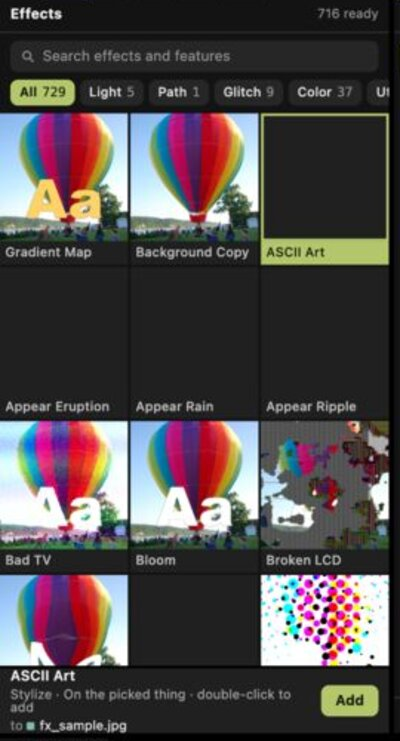
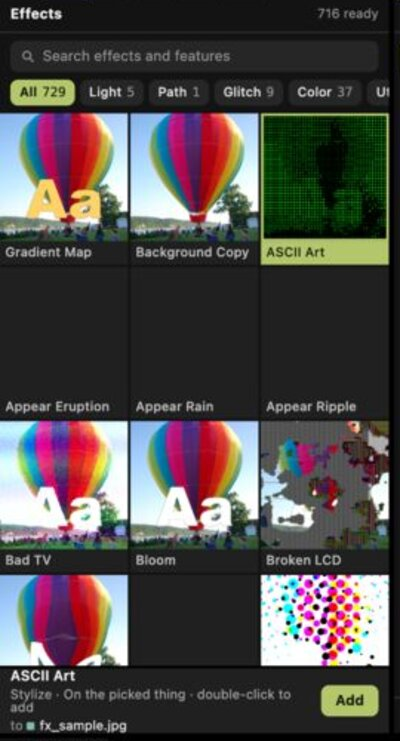
Effects put in the own folder show at once, with a balloon tile drawn by itself
The window watches the maker's own folder (~/Library/Application Support/Motolii, or MOTOLII_OWN)
while it is open, with dart:io's Directory.watch (FSEvents on a Mac): a file put in or taken out and
the shelves are read again (Motolii.forgetFolders; BRIDGE.md rule 8 gains this second half). A
screen effect (.fs, .wgsl) of the maker's with no picture gets one, drawn as filament/fx_tiles.sh
draws the bundled ones (fx_sample.jpg drifting, a white Aa, the effect on the whole picture, at
1.4 s), on a document of its own in another isolate as create_preview.dart does, and written beside
the effect (name.fs -> name.png); that write is seen by the watch and the tile shows it.

Before this the folders were read once as the window opened (BRIDGE.md rule 8), so README's "on the
shelf at once" was wrong for a file put in afterwards. drop_effect_test.dart now puts ASCII Art.fs
in with the window open and waits for its picture: it passes, and the real ~/Library folder is not
touched (MOTOLII_OWN). flutter test: 125 pass as before. Asked for by the maker (10/27).

Borrowed: fx_tiles.sh's sample and calls, create_preview.dart's isolate. Written: effect_tiles.dart
(~75 lines), 8 lines in motolii.dart and workspace.dart.

Changed region(s): [[0.66, 0.1552, 0.99, 0.3414]]

diff --git a/skin/book/lib/workspace/effect_tiles.dart b/skin/book/lib/workspace/effect_tiles.dart
@@ -1,0 +1,78 @@
+// The maker's own folder watched while the window is open (dart:io's watch, FSEvents on a Mac): a file put in or taken
+// out there and the shelves are read again (BRIDGE.md rule 8, the second half). An effect of the maker's that has no
+// picture gets one: the sample filament/fx_tiles.sh draws the bundled ones on (the balloon, fx_sample.jpg, drifting,
+// a white Aa over it) with that effect on the whole picture, drawn on a document of its own in another isolate (as
+// create_preview.dart reckons the recipes) and written beside the effect (effects/name.fs -> effects/name.png), as
+// fx_tiles.sh writes the bundled ones. That write is a change in the folder too, and the shelf shows it.
+import 'dart:async';
+import 'dart:io';
+import 'dart:isolate';
+
+import '../motolii.dart';
+
+abstract final class EffectTiles {
+  static final _asked = <String>{};
+
+  /// The maker's own folder: MOTOLII_OWN, or ~/Library/Application Support/Motolii (as the inside's doc_folders).
+  static String get own => Platform.environment['MOTOLII_OWN'] ?? '${Platform.environment['HOME']}/Library/Application Support/Motolii';
+
+  /// Watched until the subscription is cancelled; [changed] is told after the folders are read again.
+  static StreamSubscription<FileSystemEvent>? watch(Motolii m, void Function() changed) {
+    final dir = Directory('$own/effects');
+    try {
+      dir.createSync(recursive: true); // (there to put files in, as README says)
+    } catch (_) {
+      return null;
+    }
+    Timer? soon;
+    void again() {
+      m.forgetFolders();
+      changed();
+      ask(m);
+    }
+    ask(m);
+    return Directory(own).watch(recursive: true).listen((_) {
+      soon?.cancel();
+      soon = Timer(const Duration(milliseconds: 300), again); // (a copy is several events: read once it has settled)
+    });
+  }
+
+  /// The maker's screen effects with no picture beside them, drawn once each.
+  static void ask(Motolii m) {
+    final todo = [
+      for (final (n, f) in m.effects)
+        if (m.picture(n).isEmpty && f.startsWith(own) && (f.endsWith('.fs') || f.endsWith('.wgsl')) && _asked.add(f)) f,
+    ];
+    if (todo.isEmpty) return;
+    final dir = motoliiDir;
+    unawaited(Isolate.run(() => _draw(dir, todo)));
+  }
+
+  static void _draw(String dir, List<String> files) {
+    final folder = Directory.systemTemp.createTempSync('motolii_tiles');
+    final m = Motolii.open('${folder.path}/tiles.motolii', wide: 512, high: 512, dir: dir);
+    if (m == null) return;
+    final photo = m.add('picture', '$dir/fx_sample.jpg');
+    m
+      ..set(photo, 'size', 3.6)
+      ..key(photo, 'x', 0, -0.1)
+      ..key(photo, 'x', 2, 0.1);
+    final aa = m.add('text', '/System/Library/Fonts/Supplemental/Arial Black.ttf');
+    m
+      ..say(aa, 'text', 'Aa')
+      ..say(aa, 'fill', 'ffffff')
+      ..set(aa, 'size', 1)
+      ..set(aa, 'y', -0.55);
+    for (final f in files) {
+      final png = '${f.substring(0, f.lastIndexOf('.'))}.png';
+      if (File(png).existsSync() || !m.say(0, 'script', f)) continue; // (one it cannot take: no picture, as before)
+      m
+        ..at(1.4)
+        ..still(png);
+    }
+    m.close();
+    try {
+      folder.deleteSync(recursive: true);
+    } catch (_) {}
+  }
+}

diff --git a/skin/book/integration_test/drop_effect_test.dart b/skin/book/integration_test/drop_effect_test.dart
@@ -1,6 +1,7 @@
 // The README's "put an effect from the net in": an ISF file Motolii does not bundle (ASCII Art, from Vidvox's ISF-Files,
 // which filament/check/isf_all.sh fetches) put in the maker's own effects folder, seen on the Effects shelf at once and
-// put on a photo; a picture of the shelf (docs/media/drop_step1.png).
+// put on a photo; a picture of the shelf (docs/media/drop_step1.png). Put in with the window open: the shelf sees it, and its
+// tile is drawn on the balloon by itself (lib/workspace/effect_tiles.dart).
 //   flutter drive --profile -d macos --driver=test_driver/integration_test.dart --target=integration_test/drop_effect_test.dart
 import 'dart:ffi' hide Size;
 import 'dart:io';
@@ -30,7 +31,6 @@ void main() {
     expect(from.existsSync(), isTrue, reason: 'fetch ISF-Files with filament/check/isf_all.sh');
     final own = Directory.systemTemp.createTempSync('own');
     Directory('${own.path}/effects').createSync();
-    from.copySync('${own.path}/effects/ASCII Art.fs'); // (what a maker does in Finder)
     final setenv = DynamicLibrary.process().lookupFunction<Int32 Function(Pointer<Utf8>, Pointer<Utf8>, Int32), int Function(Pointer<Utf8>, Pointer<Utf8>, int)>('setenv');
     final name = 'MOTOLII_OWN'.toNativeUtf8(), path = own.path.toNativeUtf8();
     setenv(name, path, 1); // (the maker's folder here: a test does not write into the real one)
@@ -58,11 +58,14 @@ void main() {
       File('${out.path}/$png').writeAsBytesSync(bytes!.buffer.asUint8List());
     }
 
+    from.copySync('${own.path}/effects/ASCII Art.fs'); // (what a maker does in Finder, with the window open)
     final photo = m.add('picture', '$motoliiDir/fx_sample.jpg');
     m.set(photo, 'size', 2);
-    for (var i = 0; i < 60 && !m.effects.any((e) => e.$1 == 'ASCII Art'); i++) {   // (the folders are looked at again twice a second)
+    for (var i = 0; i < 200 && m.picture('ASCII Art').isEmpty; i++) {   // (seen by the folder's watch, read again, its picture drawn: effect_tiles.dart)
       await t.runAsync(() => Future<void>.delayed(const Duration(milliseconds: 50)));
+      await t.pump();
     }
+    expect(m.picture('ASCII Art'), '${own.path}/effects/ASCII Art.png', reason: 'its tile drawn beside it');
     ws
       ..reread()
       ..select('$photo')

diff --git a/skin/book/lib/workspace/workspace.dart b/skin/book/lib/workspace/workspace.dart
@@ -9,6 +9,7 @@ import 'package:docking/docking.dart';
 import 'package:flutter/widgets.dart';
 import '../parts/skin_parts.dart';
 import 'zoom.dart';
+import 'effect_tiles.dart';
 import 'ableton.dart';
 import 'package:lab_book/sets/inspector/inspector_parts_insp_host.dart';
 
@@ -61,6 +62,7 @@ class _WorkspaceState extends State<Workspace> {
     ..tools = [...deskTools, ...widget.tools]
     ..view.addAll(widget.view);
   Motolii? _inside;
+  StreamSubscription<FileSystemEvent>? _own;   // (the maker's own folder watched: effect_tiles.dart)
 
   String? _doc; // (the document that is open: the one the window was given, or one made or opened from the menu)
 
@@ -277,6 +279,9 @@ class _WorkspaceState extends State<Workspace> {
     final inside = Motolii.open(doc);
     if (inside == null) return;
     _inside = inside;
+    _own = EffectTiles.watch(inside, () {   // (a file put in the maker's own folder: on the shelves at once)
+      if (mounted) _ws.reread();
+    });
     _doc = doc;
     _beside = _documents();
     final id = await inside.texture();
@@ -304,6 +309,7 @@ class _WorkspaceState extends State<Workspace> {
   void dispose() {
     FocusManager.instance.removeListener(_keepKeys);
     _windowFocus.dispose();
+    _own?.cancel();
     _inside?.close();
     _ws.dispose();
     super.dispose();

diff --git a/skin/book/lib/motolii.dart b/skin/book/lib/motolii.dart
@@ -184,8 +184,15 @@ class Motolii {
 
   final _shownOf = <String, Shown?>{};   // (read out of the things' parts once a picture of the document)
 
-  /// What the folders hold (recipes, effects, animators): not the document's, read once.
+  /// What the folders hold (recipes, effects, animators): not the document's, read once, and again after [forgetFolders].
   final _folders = <String, List<(String, String)>>{};
+
+  /// The folders read again at the next ask (a file put in the maker's own folder: workspace/effect_tiles.dart).
+  void forgetFolders() {
+    _folders.clear();
+    _labels.clear();
+    _pictures.clear();
+  }
 
   /// The window's thread watched: while on, a change it waits for, or a read that waits on the document over 2 ms, is
   /// kept; [broken] says each, one to a line ('' none). Turned on, what was kept is forgotten.

diff --git a/ASSETS.md b/ASSETS.md
@@ -139,6 +139,7 @@
 | 関わり方（Issue・PR・台帳と出典の決まり・知っている穴） | `CONTRIBUTING.md` | 書いた（10/27） |
 | 取ってくる物の小さなスクリプト：Filament の組み立て済み SDK（前の試しのスクリプトが使う）、MIDI ビューの PianoRollSvg.js | `filament/sdk.sh`、`filament/midi_roll.sh` | 空の所から取れることを確かめた（10/27） |
 | 外向けの文書：英語の README、Issue と PR のひな型、台帳の確かめを GitHub Actions で毎回走らせる設定、README の絵（Motolii で作った物と、パブリックドメインの写真に掛けた物） | `README.en.md`、`ARCHITECTURE.md`（作りと言葉の対応表）、`CONTRIBUTING.en.md`、`CODE_OF_CONDUCT.md`、`SECURITY.md`、`.github/ISSUE_TEMPLATE/`、`.github/PULL_REQUEST_TEMPLATE.md`、`.github/workflows/assets.yml`、`.github/workflows/build.yml`（組み立て全部と試験）、`docs/media/`、`docs/examples/`（README の作例の命令と、それを 1 行で走らせる mv.sh） | 書いた（10/27）。最初の 1 本のコマンドは書いたとおりに走らせて確かめた |
+| 作者のフォルダを窓が見張り、置いた効果がその場で棚に出る。絵の無い効果には fx_tiles.sh と同じ気球の見本を自動で描いて隣に置く（dart:io の watch、create_preview.dart と同じ別 isolate） | `skin/book/lib/workspace/effect_tiles.dart`、`skin/book/integration_test/drop_effect_test.dart` | 窓の試験で確かめた（10/27、開いたまま置いて棚に出て絵ができる） |
 | 組み立てに要る Homebrew の物の一覧（Homebrew Bundle の書き方、`brew bundle` で入る） | `Brewfile` | 新しいクローンで組んで確かめた（10/27） |
 | 同梱した他の人の作品の一覧と断り書き（AviUtl2 の 172、ISF・three.js・PlayCanvas の効果、取ってくる依存）。PlayCanvas の効果のライセンスの文書 | `THIRD_PARTY_NOTICES.md`、`filament/effects/playcanvas-LICENSE.txt`、`vgpu-LICENSE.txt`、`phosphor-LICENSE.txt`、`SlitScanCam-LICENSE.txt`、`three-LICENSE.txt` | 書いた（10/27） |
 | この台帳と、その見張り（コミットの前に走る） | `ASSETS.md`、`.githooks/assets_check.py`、`.githooks/pre-commit` | 今の土台で動く |

diff --git a/README.md b/README.md
@@ -172,12 +172,12 @@ Motolii の一番の使い方です。例として、[ISF-Files](https://github.
 
 1. 効果のファイル（`.fs`）を落とす。例：ISF-Files のページで `ISF/ASCII Art.fs` を開き、Raw を右クリックして「リンク先を別名で保存」。
 2. Finder で ⌘⇧G を押し、`~/Library/Application Support/Motolii/` と打って開く。中に `effects` というフォルダを作り（無ければ）、落としたファイルを入れる。
-3. 画面の Effects の棚に、その場で出る（閉じて開き直さなくてよい）。レイヤーを選んで、タイルを押し、下の **Add**。
+3. 画面の Effects の棚に、その場で出る（閉じて開き直さなくてよい）。タイルの絵（気球の写真にその効果を掛けた見本）も数秒で自動で作られ、効果の隣に `.png` で置かれる。レイヤーを選んで、タイルを押し、下の **Add**。
    ![Effects の棚に ASCII Art が出た所](docs/media/drop_shelf.jpg)
 4. 書き出すと、こうなる（写真に ASCII Art を掛けた所）。
    ![写真に ASCII Art を掛けて書き出した所](docs/media/drop_ascii.jpg)
 
-いまは画面の中だと掛けた後の場面が白く見える不具合があります（上の「知っている不具合」）。書き出した動画では正しく描かれます。この手順の 3 までは試験としても走ります（`skin/book/integration_test/drop_effect_test.dart`。書き出しもして、そのコマが正しく描かれているのを確かめた）。WGSL（`.wgsl`）・レシピ（`.js`、`recipes/` に）・イーズ（`.way`、`ways/` に）も同じ置き方です。
+いまは画面の中だと掛けた後の場面が白く見える不具合があります（上の「知っている不具合」）。書き出した動画では正しく描かれます。この手順は試験としても走ります（`skin/book/integration_test/drop_effect_test.dart`：画面を開いたまま置く → 棚に出る → 見本の絵ができる → 掛ける → 書き出して、そのコマが正しく描かれているのを確かめた）。WGSL（`.wgsl`）・レシピ（`.js`、`recipes/` に）・イーズ（`.way`、`ways/` に）も同じ置き方です。
 
 ### 次に：自分の素材で
 

diff --git a/skin/BRIDGE.md b/skin/BRIDGE.md
@@ -18,7 +18,7 @@ Thermion（描けは前が終わるまで捨てる）。調べた記録は `rese
    （再生ヘッド、再生中、選んだ物、選んだキー、desk、棚、見え方、Animate）をそれぞれ1つずつ。何でも知らせる口（`Ws` 全体の `notifyListeners`）は作らない。
 6. **書き（W）は投げるだけ。** 列に積んで、すぐ戻る。番号が要る物（`add`・`make`）は、答えを後で写しと一緒に受け取る。同じ物の同じ値への書きが列に残っていたら、最新の1つにまとめる。
 7. **今の時刻以外を聞く物と、長い物（Q）は問い合わせ。** 頼んで `Future` で受け取る。組み立ての中では待たない（届いたら、その部品だけ描き直す）。
-8. **起動時に1回の物（S）**（レシピ・効果・アニメーターのフォルダ、フォントの種類）は、窓が開く時に別のスレッドで1回読む。
+8. **起動時に1回の物（S）**（レシピ・効果・アニメーターのフォルダ、フォントの種類）は、窓が開く時に別のスレッドで1回読む。（10/27 から：作者のフォルダ `~/Library/Application Support/Motolii/` は窓が開いている間見張り、ファイルが入るか出るかしたら読み直す。絵の無い効果には気球の見本を別の isolate で描いて隣に置く：`book/lib/workspace/effect_tiles.dart`）
 9. **再生ヘッド・選択・ズームは窓の持ち物**（Lumit と同じ）。中身へは書きとして伝えるだけ。
 10. **見張り。** `integration_test/frames_test.dart`：窓が中身を待った回数は 0（今の赤ポチ）。再生ヘッドを1つ動かした時と、再生を押した時に組み立て直される部品の数に上限を付け、超えたら赤。
 

diff --git a/README.en.md b/README.en.md
@@ -172,12 +172,12 @@ This is what Motolii is for. As an example, `ASCII Art.fs` from [ISF-Files](http
 
 1. Download the effect file (`.fs`). For example, open `ISF/ASCII Art.fs` on the ISF-Files page, right-click Raw and save the link.
 2. In Finder press ⌘⇧G, type `~/Library/Application Support/Motolii/` and go. Make a folder `effects` there (if there is none) and put the file in it.
-3. It appears on the Effects shelf at once (no restart). Pick a layer, press the tile, then **Add**.
+3. It appears on the Effects shelf at once (no restart). Its tile picture (the balloon photo with that effect on) is made by itself within seconds and put beside the effect as a `.png`. Pick a layer, press the tile, then **Add**.
    ![ASCII Art on the Effects shelf](docs/media/drop_shelf.jpg)
 4. Written out, it looks like this (ASCII Art on a photo).
    ![ASCII Art on a photo, written out](docs/media/drop_ascii.jpg)
 
-For now the live view inside the app shows the composition white after this (see Known bugs); the written video is drawn right. Steps 1–3 also run as a test (`skin/book/integration_test/drop_effect_test.dart`), which also writes the video and was checked by its frames. WGSL (`.wgsl`), recipes (`.js`, in `recipes/`) and eases (`.way`, in `ways/`) go in the same way.
+For now the live view inside the app shows the composition white after this (see Known bugs); the written video is drawn right. These steps also run as a test (`skin/book/integration_test/drop_effect_test.dart`: put in with the app open → on the shelf → its tile drawn → put on → written, its frames checked). WGSL (`.wgsl`), recipes (`.js`, in `recipes/`) and eases (`.way`, in `ways/`) go in the same way.
 
 ### Next: your own media
 
